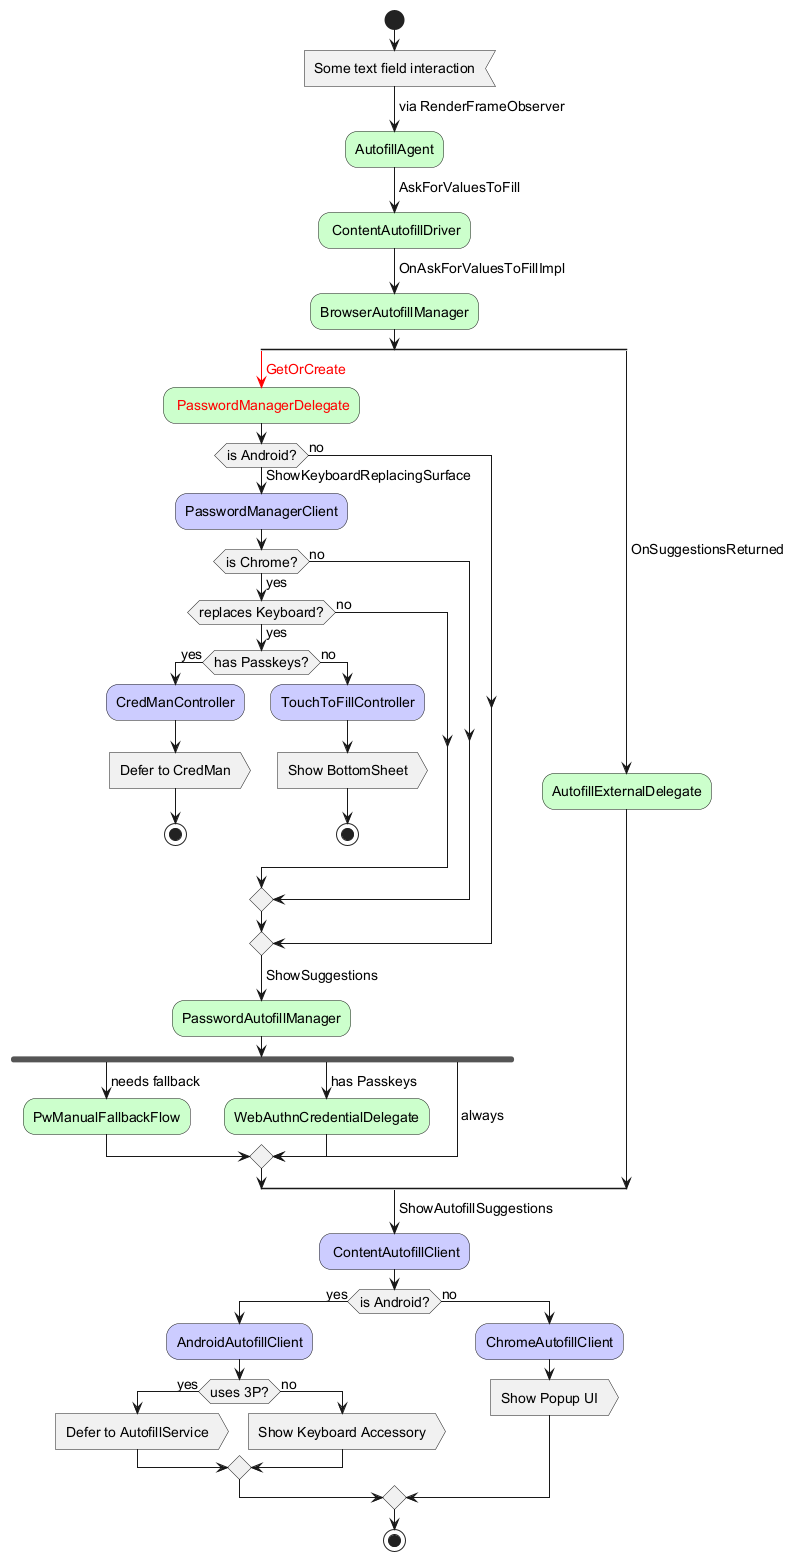
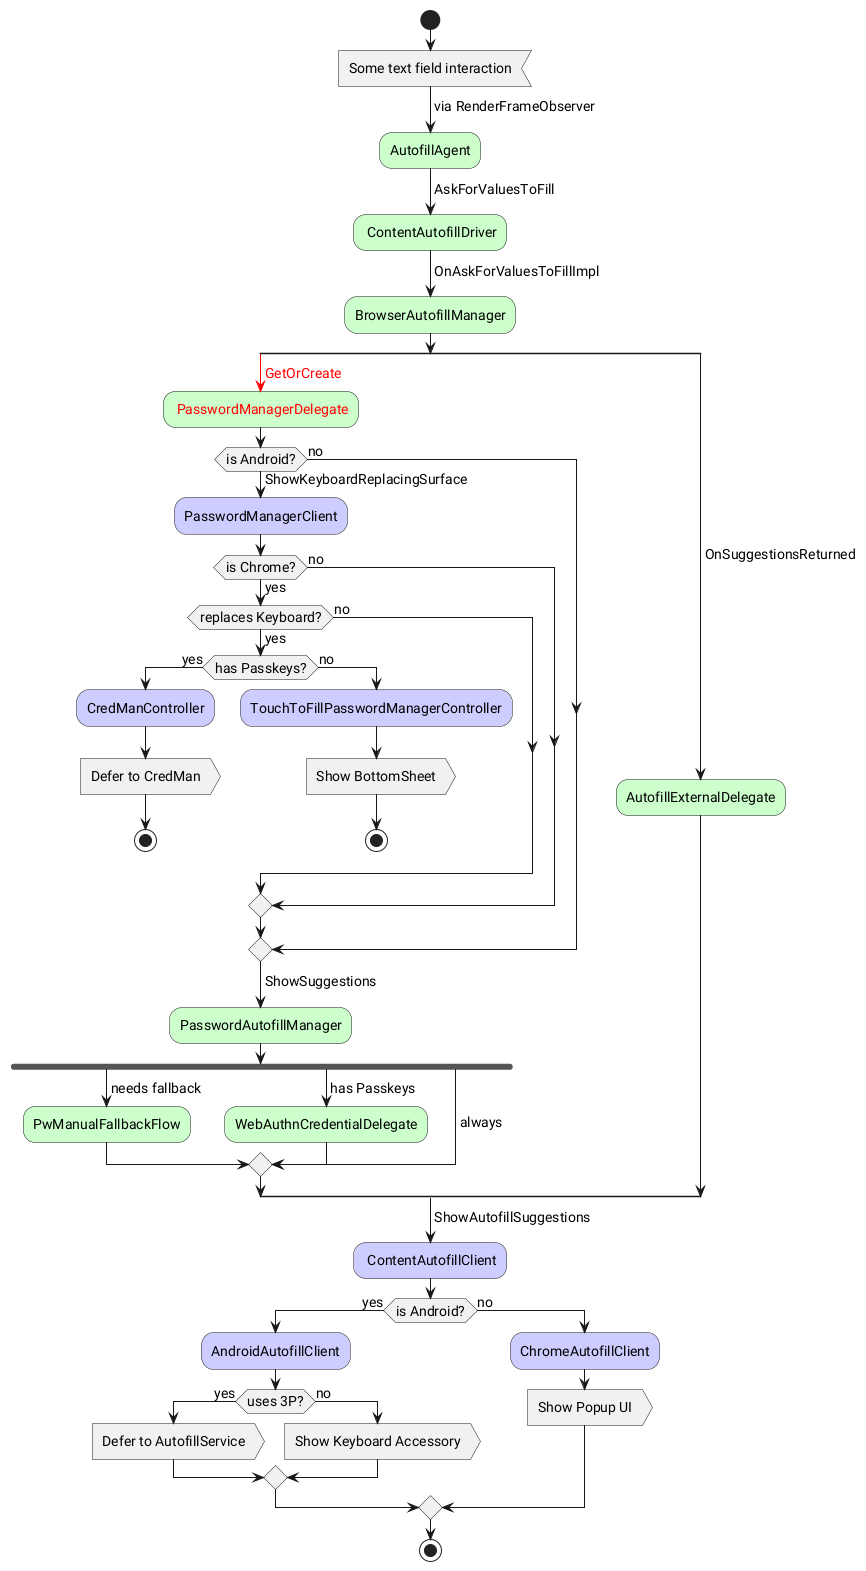
Rename TouchToFillController to TouchToFillPasswordManagerController
This change renames the TouchToFillController to
TouchToFillPasswordManagerController. This clarifies that these
components are specific to the password manager's Touch To Fill
implementation, distinguishing them from other potential Touch To Fill
uses. More context in crrev.com/c/7911106.

Bypass-Check-License: renaming files
Bug: b:522258289

Commit-Queue: Nicola Tommasi <[email redacted]>

Cr-Commit-Position: refs/heads/main@{#1645380}

Changed region(s): [[0.0906, 0.0, 0.9962, 0.7687], [0.0302, 0.5535, 0.7849, 0.9532], [0.483, 0.9532, 0.5132, 1.0]]

diff --git a/chrome/browser/password_manager/chrome_password_manager_client_unittest.cc b/chrome/browser/password_manager/chrome_password_manager_client_unittest.cc
@@ -117,8 +117,8 @@
 #include "chrome/browser/password_manager/chrome_webauthn_credentials_delegate.h"
 #include "chrome/browser/password_manager/chrome_webauthn_credentials_delegate_factory.h"
 #include "chrome/browser/password_manager/factories/account_password_store_factory.h"
-#include "chrome/browser/touch_to_fill/password_manager/touch_to_fill_controller.h"
 #include "chrome/browser/touch_to_fill/password_manager/touch_to_fill_controller_delegate.h"
+#include "chrome/browser/touch_to_fill/password_manager/touch_to_fill_password_manager_controller.h"
 #include "components/password_manager/content/browser/mock_keyboard_replacing_surface_visibility_controller.h"
 #include "components/password_manager/core/browser/passkey_credential.h"
 #include "components/webauthn/android/cred_man_support.h"
@@ -394,14 +394,17 @@ std::unique_ptr<KeyedService> CreateMockPasswordChangeService(
 }
 
 #if BUILDFLAG(IS_ANDROID)
-class MockTouchToFillController : public TouchToFillController {
+class MockTouchToFillPasswordManagerController
+    : public TouchToFillPasswordManagerController {
  public:
-  MockTouchToFillController(
+  MockTouchToFillPasswordManagerController(
       Profile* profile,
       base::WeakPtr<
           password_manager::KeyboardReplacingSurfaceVisibilityController>
           visibility_controller)
-      : TouchToFillController(profile, visibility_controller, nullptr) {}
+      : TouchToFillPasswordManagerController(profile,
+                                             visibility_controller,
+                                             nullptr) {}
 
   MOCK_METHOD(void,
               InitData,
@@ -1504,13 +1507,15 @@ class ChromePasswordManagerClientAndroidTest
     task_environment()->AdvanceClock(delta);
   }
 
-  MockTouchToFillController* MakeMockTouchToFillController() {
+  MockTouchToFillPasswordManagerController*
+  MakeMockTouchToFillPasswordManagerController() {
     visibility_controller_ = std::make_unique<
         password_manager::MockKeyboardReplacingSurfaceVisibilityController>();
-    auto owned_ttf_controller = std::make_unique<MockTouchToFillController>(
-        profile(), visibility_controller_->AsWeakPtr());
+    auto owned_ttf_controller =
+        std::make_unique<MockTouchToFillPasswordManagerController>(
+            profile(), visibility_controller_->AsWeakPtr());
     auto* ttf_controller = owned_ttf_controller.get();
-    GetClient()->SetTouchToFillControllerForTesting(
+    GetClient()->SetTouchToFillPasswordManagerControllerForTesting(
         std::move(owned_ttf_controller));
     return ttf_controller;
   }
@@ -2126,7 +2131,7 @@ TEST_F(ChromePasswordManagerClientAndroidTest,
           kDelaySuggestionsOnAutofocusWaitingForPasskeys);
   CreateManualFillingController(web_contents());
 
-  auto* ttf_controller = MakeMockTouchToFillController();
+  auto* ttf_controller = MakeMockTouchToFillPasswordManagerController();
 
   EXPECT_CALL(*ttf_controller, InitData).Times(0);
   EXPECT_CALL(*ttf_controller, Show).Times(0);
@@ -2178,7 +2183,7 @@ TEST_F(ChromePasswordManagerClientAndroidTest,
           kDelaySuggestionsOnAutofocusWaitingForPasskeys);
   CreateManualFillingController(web_contents());
 
-  auto* ttf_controller = MakeMockTouchToFillController();
+  auto* ttf_controller = MakeMockTouchToFillPasswordManagerController();
   EXPECT_CALL(*ttf_controller, InitData).Times(0);
   EXPECT_CALL(*ttf_controller, Show).Times(0);
 
@@ -2243,7 +2248,7 @@ TEST_F(ChromePasswordManagerClientAndroidTest,
           kDelaySuggestionsOnAutofocusWaitingForPasskeys);
   CreateManualFillingController(web_contents());
 
-  auto* ttf_controller = MakeMockTouchToFillController();
+  auto* ttf_controller = MakeMockTouchToFillPasswordManagerController();
   EXPECT_CALL(*ttf_controller, InitData).Times(0);
   EXPECT_CALL(*ttf_controller, Show).Times(0);
 

diff --git a/chrome/browser/password_manager/chrome_password_manager_client.h b/chrome/browser/password_manager/chrome_password_manager_client.h
@@ -51,7 +51,7 @@
 #include "chrome/browser/password_manager/android/generated_password_saved_message_delegate.h"
 #include "chrome/browser/password_manager/android/password_manager_error_message_delegate.h"
 #include "chrome/browser/password_manager/android/save_update_password_message_delegate.h"
-#include "chrome/browser/touch_to_fill/password_manager/touch_to_fill_controller.h"
+#include "chrome/browser/touch_to_fill/password_manager/touch_to_fill_password_manager_controller.h"
 #include "components/enterprise/connectors/core/features.h"
 #include "components/password_manager/core/browser/credential_cache.h"
 #include "components/password_manager/core/browser/first_cct_page_load_passwords_ukm_recorder.h"
@@ -381,8 +381,8 @@ class ChromePasswordManagerClient
         render_frame_host);
   }
 #if BUILDFLAG(IS_ANDROID)
-  void SetTouchToFillControllerForTesting(
-      std::unique_ptr<TouchToFillController> controller) {
+  void SetTouchToFillPasswordManagerControllerForTesting(
+      std::unique_ptr<TouchToFillPasswordManagerController> controller) {
     touch_to_fill_controller_ = std::move(controller);
   }
 
@@ -429,7 +429,8 @@ class ChromePasswordManagerClient
   Profile* GetProfile() const;
 
 #if BUILDFLAG(IS_ANDROID)
-  TouchToFillController* GetOrCreateTouchToFillController();
+  TouchToFillPasswordManagerController*
+  GetOrCreateTouchToFillPasswordManagerController();
 
   void ContinueShowKeyboardReplacingSurface(
       base::WeakPtr<password_manager::PasswordManagerDriver> weak_driver,
@@ -526,16 +527,17 @@ class ChromePasswordManagerClient
   // Holds and facilitates a credential store for each origin in this tab.
   password_manager::CredentialCache credential_cache_;
 
-  // Controller for the Touch To Fill sheet. Created on demand during the first
-  // call to GetOrCreateTouchToFillController().
-  std::unique_ptr<TouchToFillController> touch_to_fill_controller_;
+  // Controller for the Touch To Fill passwords sheet. Created on demand during
+  // the first call to GetOrCreateTouchToFillPasswordManagerController().
+  std::unique_ptr<TouchToFillPasswordManagerController>
+      touch_to_fill_controller_;
 
   // Controller for Android Credential Manager API. Created on demand.
   std::unique_ptr<password_manager::CredManController> cred_man_controller_;
 
   // Controller for CredMan and TouchToFill visibility. Both
-  // `TouchToFillController` and `CredManController` share the same instance to
-  // control their visibility state.
+  // `TouchToFillPasswordManagerController` and `CredManController` share the
+  // same instance to control their visibility state.
   std::unique_ptr<
       password_manager::KeyboardReplacingSurfaceVisibilityController>
       keyboard_replacing_surface_visibility_controller_;

diff --git a/chrome/browser/password_manager/chrome_password_manager_client.cc b/chrome/browser/password_manager/chrome_password_manager_client.cc
@@ -689,7 +689,8 @@ void ChromePasswordManagerClient::ContinueShowKeyboardReplacingSurface(
   credentials.insert(credentials.end(), password_credentials.begin(),
                      password_credentials.end());
 
-  TouchToFillController* ttf_controller = GetOrCreateTouchToFillController();
+  TouchToFillPasswordManagerController* ttf_controller =
+      GetOrCreateTouchToFillPasswordManagerController();
   ttf_controller->InitData(std::move(credentials), driver->AsWeakPtrImpl());
   if (!ttf_controller->Show(std::move(ttf_controller_autofill_delegate),
                             GetWebAuthnCredManDelegateForDriver(driver))) {
@@ -1770,12 +1771,14 @@ ChromePasswordManagerClient::GetOrCreatePasswordAccessory() {
                                                   &credential_cache_);
 }
 
-TouchToFillController*
-ChromePasswordManagerClient::GetOrCreateTouchToFillController() {
+TouchToFillPasswordManagerController*
+ChromePasswordManagerClient::GetOrCreateTouchToFillPasswordManagerController() {
   if (!touch_to_fill_controller_) {
-    touch_to_fill_controller_ = std::make_unique<TouchToFillController>(
-        GetProfile(), GetOrCreateKeyboardReplacingSurfaceVisibilityController(),
-        std::make_unique<AcknowledgeGroupedCredentialSheetController>());
+    touch_to_fill_controller_ =
+        std::make_unique<TouchToFillPasswordManagerController>(
+            GetProfile(),
+            GetOrCreateKeyboardReplacingSurfaceVisibilityController(),
+            std::make_unique<AcknowledgeGroupedCredentialSheetController>());
   }
   return touch_to_fill_controller_.get();
 }

diff --git a/chrome/browser/touch_to_fill/password_manager/touch_to_fill_controller_autofill_delegate_unittest.cc b/chrome/browser/touch_to_fill/password_manager/touch_to_fill_controller_autofill_delegate_unittest.cc
@@ -24,7 +24,7 @@
 #include "chrome/browser/password_manager/android/password_manager_launcher_android.h"
 #include "chrome/browser/password_manager/chrome_password_manager_client.h"
 #include "chrome/browser/profiles/profile.h"
-#include "chrome/browser/touch_to_fill/password_manager/touch_to_fill_controller.h"
+#include "chrome/browser/touch_to_fill/password_manager/touch_to_fill_password_manager_controller.h"
 #include "chrome/browser/touch_to_fill/password_manager/touch_to_fill_view.h"
 #include "chrome/test/base/chrome_render_view_host_test_harness.h"
 #include "components/autofill/core/common/unique_ids.h"
@@ -180,7 +180,7 @@ class TouchToFillControllerAutofillTest
 
   base::HistogramTester& histogram_tester() { return histogram_tester_; }
 
-  TouchToFillController& touch_to_fill_controller() {
+  TouchToFillPasswordManagerController& touch_to_fill_controller() {
     return *touch_to_fill_controller_;
   }
 
@@ -230,9 +230,10 @@ class TouchToFillControllerAutofillTest
     mock_view_ = mock_view.get();
     visibility_controller_ = std::make_unique<
         password_manager::MockKeyboardReplacingSurfaceVisibilityController>();
-    touch_to_fill_controller_ = std::make_unique<TouchToFillController>(
-        profile(), visibility_controller_->AsWeakPtr(),
-        grouped_credential_sheet_helper_.CreateController());
+    touch_to_fill_controller_ =
+        std::make_unique<TouchToFillPasswordManagerController>(
+            profile(), visibility_controller_->AsWeakPtr(),
+            grouped_credential_sheet_helper_.CreateController());
     touch_to_fill_controller().set_view(std::move(mock_view));
     form_to_fill_.password_element_renderer_id = autofill::FieldRendererId(1);
     form_to_fill_.username_element_renderer_id = autofill::FieldRendererId(2);
@@ -249,7 +250,8 @@ class TouchToFillControllerAutofillTest
   std::unique_ptr<
       password_manager::MockKeyboardReplacingSurfaceVisibilityController>
       visibility_controller_;
-  std::unique_ptr<TouchToFillController> touch_to_fill_controller_;
+  std::unique_ptr<TouchToFillPasswordManagerController>
+      touch_to_fill_controller_;
   base::test::ScopedFeatureList scoped_feature_list_{
       password_manager::features::kBiometricTouchToFill};
   raw_ptr<MockPasswordCredentialFiller> weak_filler_;

diff --git a/chrome/browser/touch_to_fill/password_manager/touch_to_fill_controller_webauthn_delegate_unittest.cc b/chrome/browser/touch_to_fill/password_manager/touch_to_fill_controller_webauthn_delegate_unittest.cc
@@ -13,7 +13,7 @@
 #include "base/types/pass_key.h"
 #include "chrome/browser/password_manager/android/password_manager_launcher_android.h"
 #include "chrome/browser/touch_to_fill/password_manager/no_passkeys/android/no_passkeys_bottom_sheet_bridge.h"
-#include "chrome/browser/touch_to_fill/password_manager/touch_to_fill_controller.h"
+#include "chrome/browser/touch_to_fill/password_manager/touch_to_fill_password_manager_controller.h"
 #include "chrome/browser/touch_to_fill/password_manager/touch_to_fill_view.h"
 #include "chrome/browser/webauthn/android/credential_sorter_android.h"
 #include "chrome/browser/webauthn/android/webauthn_request_delegate_android.h"
@@ -136,9 +136,10 @@ class TouchToFillControllerWebAuthnTest
 
     visibility_controller_ = std::make_unique<
         password_manager::MockKeyboardReplacingSurfaceVisibilityController>();
-    touch_to_fill_controller_ = std::make_unique<TouchToFillController>(
-        profile(), visibility_controller_->AsWeakPtr(),
-        /*grouped_credential_sheet_controller=*/nullptr);
+    touch_to_fill_controller_ =
+        std::make_unique<TouchToFillPasswordManagerController>(
+            profile(), visibility_controller_->AsWeakPtr(),
+            /*grouped_credential_sheet_controller=*/nullptr);
     auto mock_view = std::make_unique<MockTouchToFillView>();
     mock_view_ = mock_view.get();
     touch_to_fill_controller().set_view(std::move(mock_view));
@@ -182,7 +183,7 @@ class TouchToFillControllerWebAuthnTest
 
   MockJniDelegate& jni_delegate() { return *jni_delegate_; }
 
-  TouchToFillController& touch_to_fill_controller() {
+  TouchToFillPasswordManagerController& touch_to_fill_controller() {
     return *touch_to_fill_controller_;
   }
 
@@ -206,7 +207,8 @@ class TouchToFillControllerWebAuthnTest
   std::unique_ptr<
       password_manager::MockKeyboardReplacingSurfaceVisibilityController>
       visibility_controller_;
-  std::unique_ptr<TouchToFillController> touch_to_fill_controller_;
+  std::unique_ptr<TouchToFillPasswordManagerController>
+      touch_to_fill_controller_;
   raw_ptr<MockTouchToFillView> mock_view_ = nullptr;
   raw_ptr<MockJniDelegate> jni_delegate_ = nullptr;
 };

diff --git a/chrome/browser/webauthn/android/webauthn_request_delegate_android.cc b/chrome/browser/webauthn/android/webauthn_request_delegate_android.cc
@@ -17,8 +17,8 @@
 #include "chrome/browser/password_manager/chrome_webauthn_credentials_delegate.h"
 #include "chrome/browser/password_manager/chrome_webauthn_credentials_delegate_factory.h"
 #include "chrome/browser/profiles/profile.h"
-#include "chrome/browser/touch_to_fill/password_manager/touch_to_fill_controller.h"
 #include "chrome/browser/touch_to_fill/password_manager/touch_to_fill_controller_webauthn_delegate.h"
+#include "chrome/browser/touch_to_fill/password_manager/touch_to_fill_password_manager_controller.h"
 #include "chrome/browser/webauthn/android/credential_sorter_android.h"
 #include "chrome/browser/webauthn/password_credential_fetcher.h"
 #include "chrome/browser/webauthn/webauthn_metrics_util.h"
@@ -179,10 +179,11 @@ void WebAuthnRequestDelegateAndroid::MaybeShowTouchToFillSheet(
         password_manager::KeyboardReplacingSurfaceVisibilityControllerImpl>();
   }
   if (!touch_to_fill_controller_) {
-    touch_to_fill_controller_ = std::make_unique<TouchToFillController>(
-        Profile::FromBrowserContext(frame_host->GetBrowserContext()),
-        visibility_controller_->AsWeakPtr(),
-        /*grouped_credential_sheet_controller=*/nullptr);
+    touch_to_fill_controller_ =
+        std::make_unique<TouchToFillPasswordManagerController>(
+            Profile::FromBrowserContext(frame_host->GetBrowserContext()),
+            visibility_controller_->AsWeakPtr(),
+            /*grouped_credential_sheet_controller=*/nullptr);
   }
   touch_to_fill_controller_->InitData(
       std::move(credentials),

diff --git a/chrome/browser/touch_to_fill/password_manager/touch_to_fill_controller_webauthn_delegate.h b/chrome/browser/touch_to_fill/password_manager/touch_to_fill_controller_webauthn_delegate.h
@@ -27,11 +27,11 @@ class PasskeyCredential;
 class UiCredential;
 }  // namespace password_manager
 
-// Derived TouchToFillController class specific for use with non-conditional
-// WebAuthn sign-in. It does not integrate with the password manager because it
-// is in response to an immediate WebAuthn invocation, without necessarily any
-// forms or input fields being present on the page.
-// This is owned by WebAuthnRequestDelegateAndroid.
+// Derived TouchToFillPasswordManagerController class specific for use with
+// non-conditional WebAuthn sign-in. It does not integrate with the password
+// manager because it is in response to an immediate WebAuthn invocation,
+// without necessarily any forms or input fields being present on the page. This
+// is owned by WebAuthnRequestDelegateAndroid.
 class TouchToFillControllerWebAuthnDelegate
     : public TouchToFillControllerDelegate {
  public:

diff --git a/chrome/browser/touch_to_fill/password_manager/touch_to_fill_controller_delegate.h b/chrome/browser/touch_to_fill/password_manager/touch_to_fill_controller_delegate.h
@@ -21,8 +21,8 @@ class UiCredential;
 
 class GURL;
 
-// Delegate interface for TouchToFillController, to be implemented by
-// owner-specified classes.
+// Delegate interface for TouchToFillPasswordManagerController, to be
+// implemented by owner-specified classes.
 class TouchToFillControllerDelegate {
  public:
   virtual ~TouchToFillControllerDelegate();
@@ -86,8 +86,8 @@ class TouchToFillControllerDelegate {
   virtual bool ShouldShowNoPasskeysSheetIfRequired() = 0;
 
   // A method for the delegate providing a credential sorting that will override
-  // the `TouchToFillController` default. If the delegate does not have a custom
-  // sorting function, this returns `std::nullopt`.
+  // the `TouchToFillPasswordManagerController` default. If the delegate does
+  // not have a custom sorting function, this returns `std::nullopt`.
   virtual std::optional<std::vector<TouchToFillView::Credential>>
   SortCredentials(
       base::span<const TouchToFillView::Credential> credentials) = 0;

diff --git a/chrome/browser/touch_to_fill/password_manager/android/touch_to_fill_view_impl.h b/chrome/browser/touch_to_fill/password_manager/android/touch_to_fill_view_impl.h
@@ -13,13 +13,14 @@ namespace password_manager {
 class UiCredential;
 }  // namespace password_manager
 
-class TouchToFillController;
+class TouchToFillPasswordManagerController;
 
 // This class provides an implementation of the TouchToFillView interface and
 // communicates via JNI with its TouchToFillBridge Java counterpart.
 class TouchToFillViewImpl : public TouchToFillView {
  public:
-  explicit TouchToFillViewImpl(TouchToFillController* controller);
+  explicit TouchToFillViewImpl(
+      TouchToFillPasswordManagerController* controller);
   ~TouchToFillViewImpl() override;
 
   // TouchToFillView:
@@ -47,7 +48,7 @@ class TouchToFillViewImpl : public TouchToFillView {
   // java object whenever Show() is called.
   bool RecreateJavaObject();
 
-  raw_ptr<TouchToFillController> controller_ = nullptr;
+  raw_ptr<TouchToFillPasswordManagerController> controller_ = nullptr;
   base::android::ScopedJavaGlobalRef<jobject> java_object_internal_;
 };
 

diff --git a/chrome/browser/touch_to_fill/password_manager/touch_to_fill_controller_autofill_delegate.h b/chrome/browser/touch_to_fill/password_manager/touch_to_fill_controller_autofill_delegate.h
@@ -40,12 +40,11 @@ class WebContents;
 }
 
 class ChromePasswordManagerClient;
-class TouchToFillController;
+class TouchToFillPasswordManagerController;
 class Profile;
 
-// Delegate interface for TouchToFillController being used in an autofill
-// context.
-// The order of execution is the following:
+// Delegate interface for TouchToFillPasswordManagerController being used in an
+// autofill context. The order of execution is the following:
 // - `OnShow` is called upon showing the bottom sheet with credentials.
 // - `OnCredentialSelected` is called upon selecting the credential.
 // - `OnReauthCompleted` (only of auth before filling of on).

diff --git a/chrome/browser/touch_to_fill/password_manager/android/touch_to_fill_view_impl.cc b/chrome/browser/touch_to_fill/password_manager/android/touch_to_fill_view_impl.cc
@@ -14,7 +14,7 @@
 #include "base/android/jni_string.h"
 #include "base/time/time.h"
 #include "chrome/browser/profiles/profile.h"
-#include "chrome/browser/touch_to_fill/password_manager/touch_to_fill_controller.h"  // nogncheck
+#include "chrome/browser/touch_to_fill/password_manager/touch_to_fill_password_manager_controller.h"  // nogncheck
 #include "chrome/browser/ui/passwords/ui_utils.h"
 #include "components/password_manager/core/browser/password_manager_util.h"
 #include "components/password_manager/core/browser/password_ui_utils.h"
@@ -83,7 +83,8 @@ PasskeyCredential ConvertJavaWebauthnCredential(
 
 }  // namespace
 
-TouchToFillViewImpl::TouchToFillViewImpl(TouchToFillController* controller)
+TouchToFillViewImpl::TouchToFillViewImpl(
+    TouchToFillPasswordManagerController* controller)
     : controller_(controller) {}
 
 TouchToFillViewImpl::~TouchToFillViewImpl() {

diff --git a/chrome/browser/webauthn/android/webauthn_request_delegate_android.h b/chrome/browser/webauthn/android/webauthn_request_delegate_android.h
@@ -33,7 +33,7 @@ class KeyboardReplacingSurfaceVisibilityController;
 }
 
 class PasswordCredentialFetcher;
-class TouchToFillController;
+class TouchToFillPasswordManagerController;
 
 // Helper class for connecting the autofill implementation to the WebAuthn
 // request handling for Conditional UI on Android. This is attached to a
@@ -113,7 +113,8 @@ class WebAuthnRequestDelegateAndroid : public base::SupportsUserData::Data,
 
   // Controller for using the Touch To Fill bottom sheet for non-conditional
   // requests.
-  std::unique_ptr<TouchToFillController> touch_to_fill_controller_;
+  std::unique_ptr<TouchToFillPasswordManagerController>
+      touch_to_fill_controller_;
 
   std::unique_ptr<
       password_manager::KeyboardReplacingSurfaceVisibilityController>